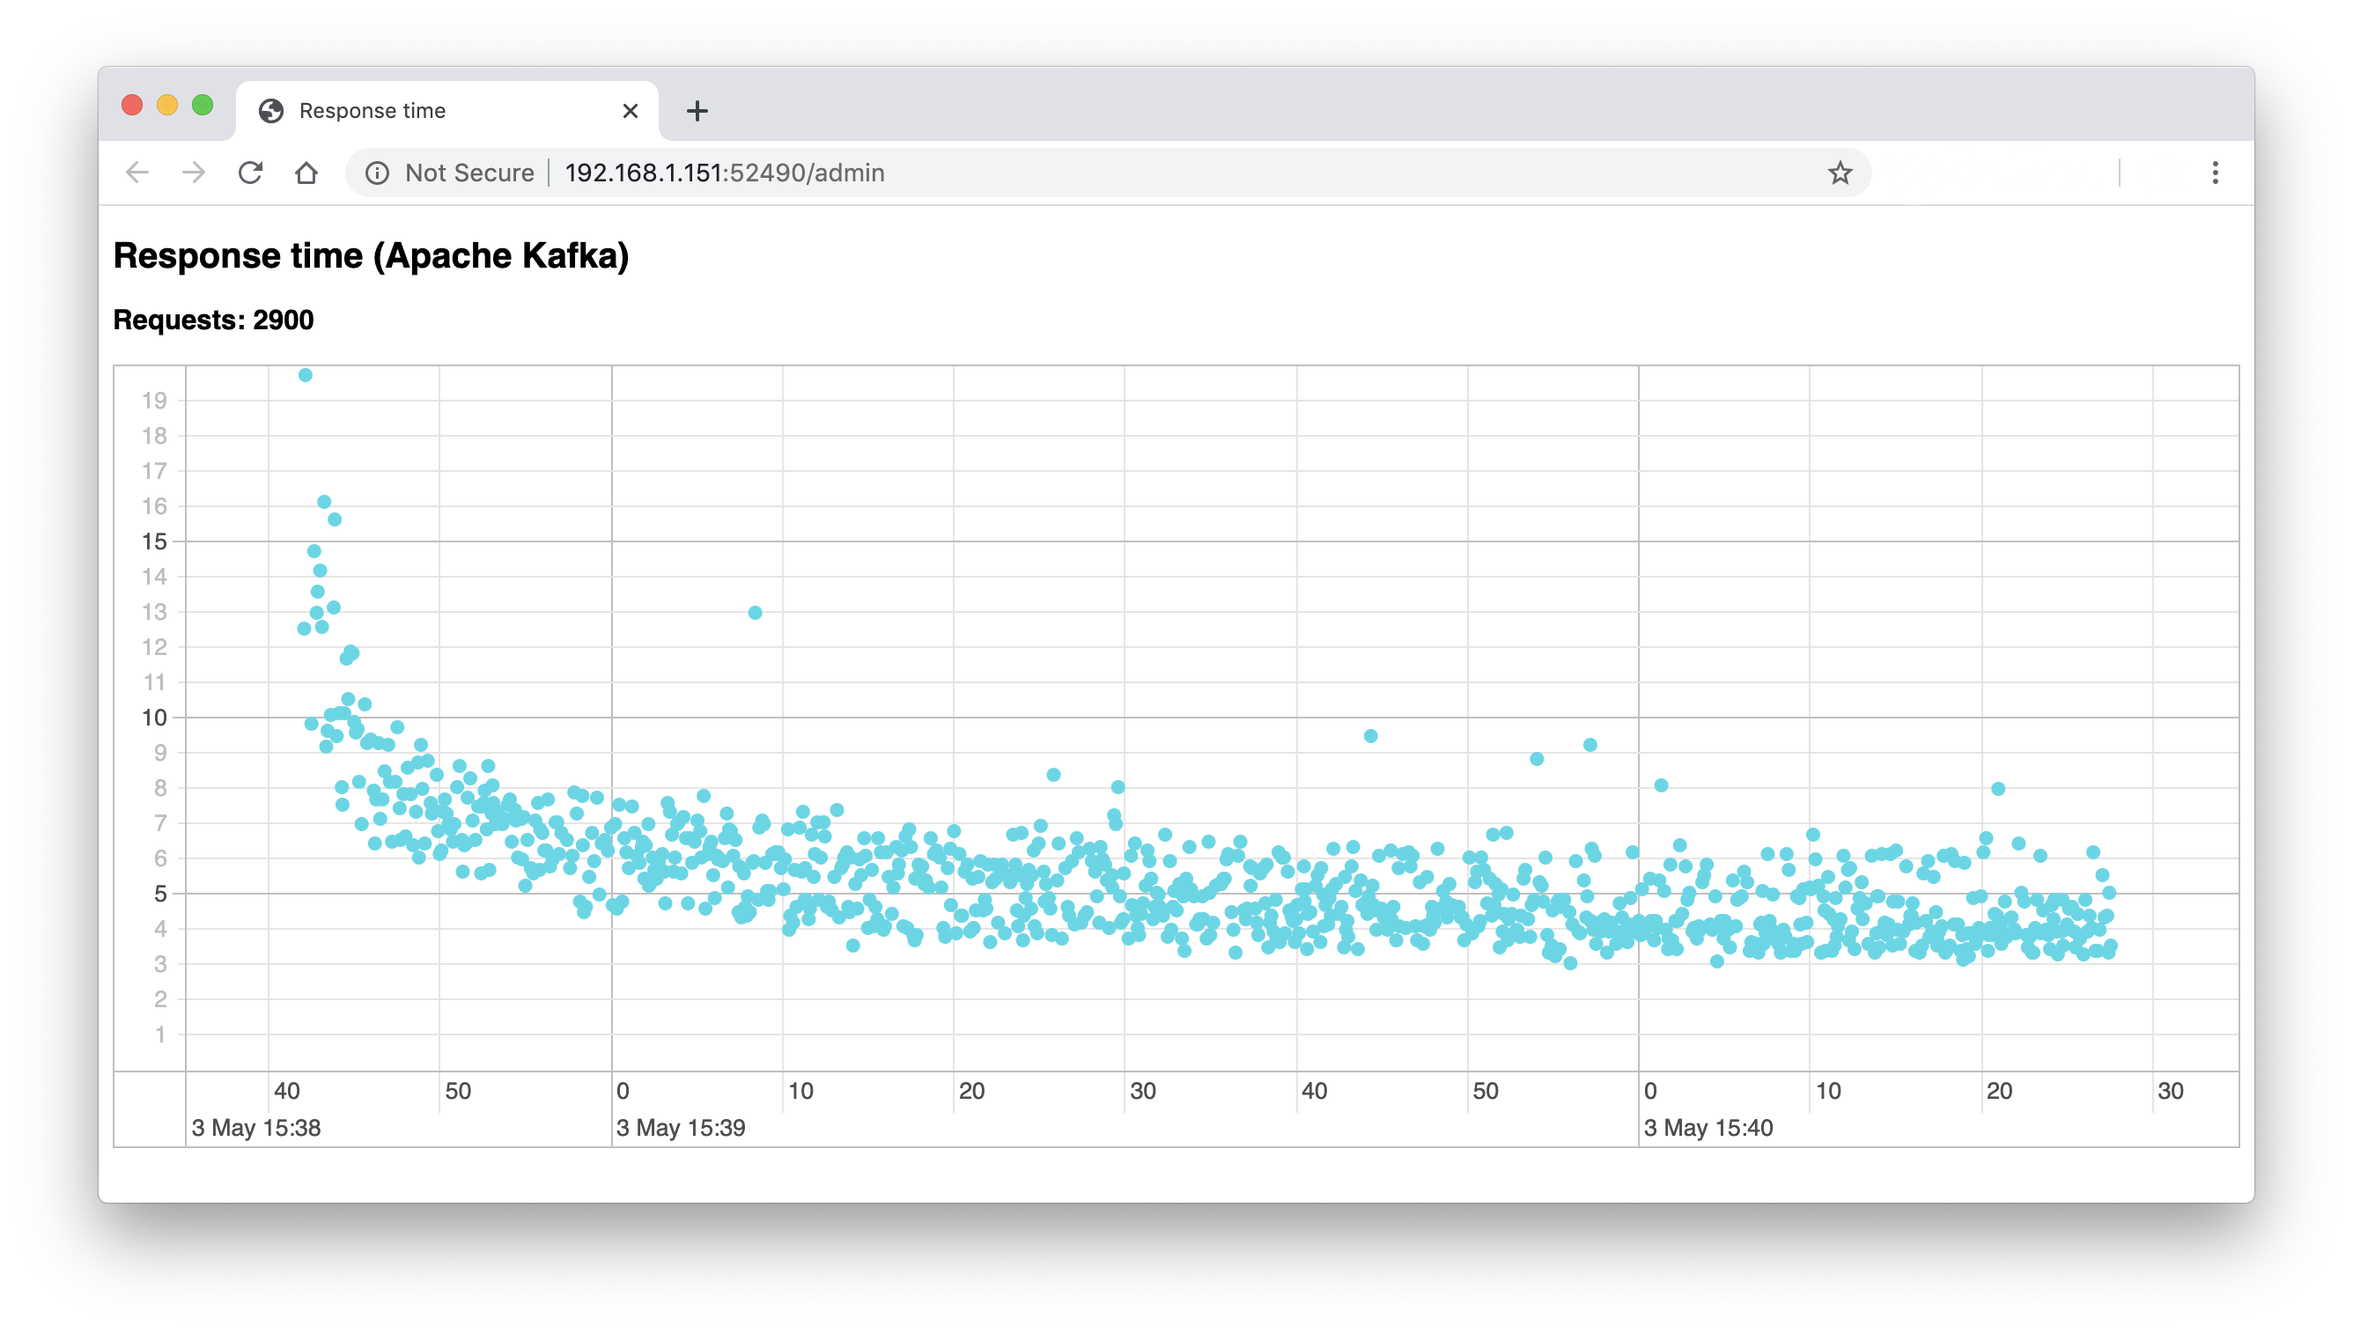
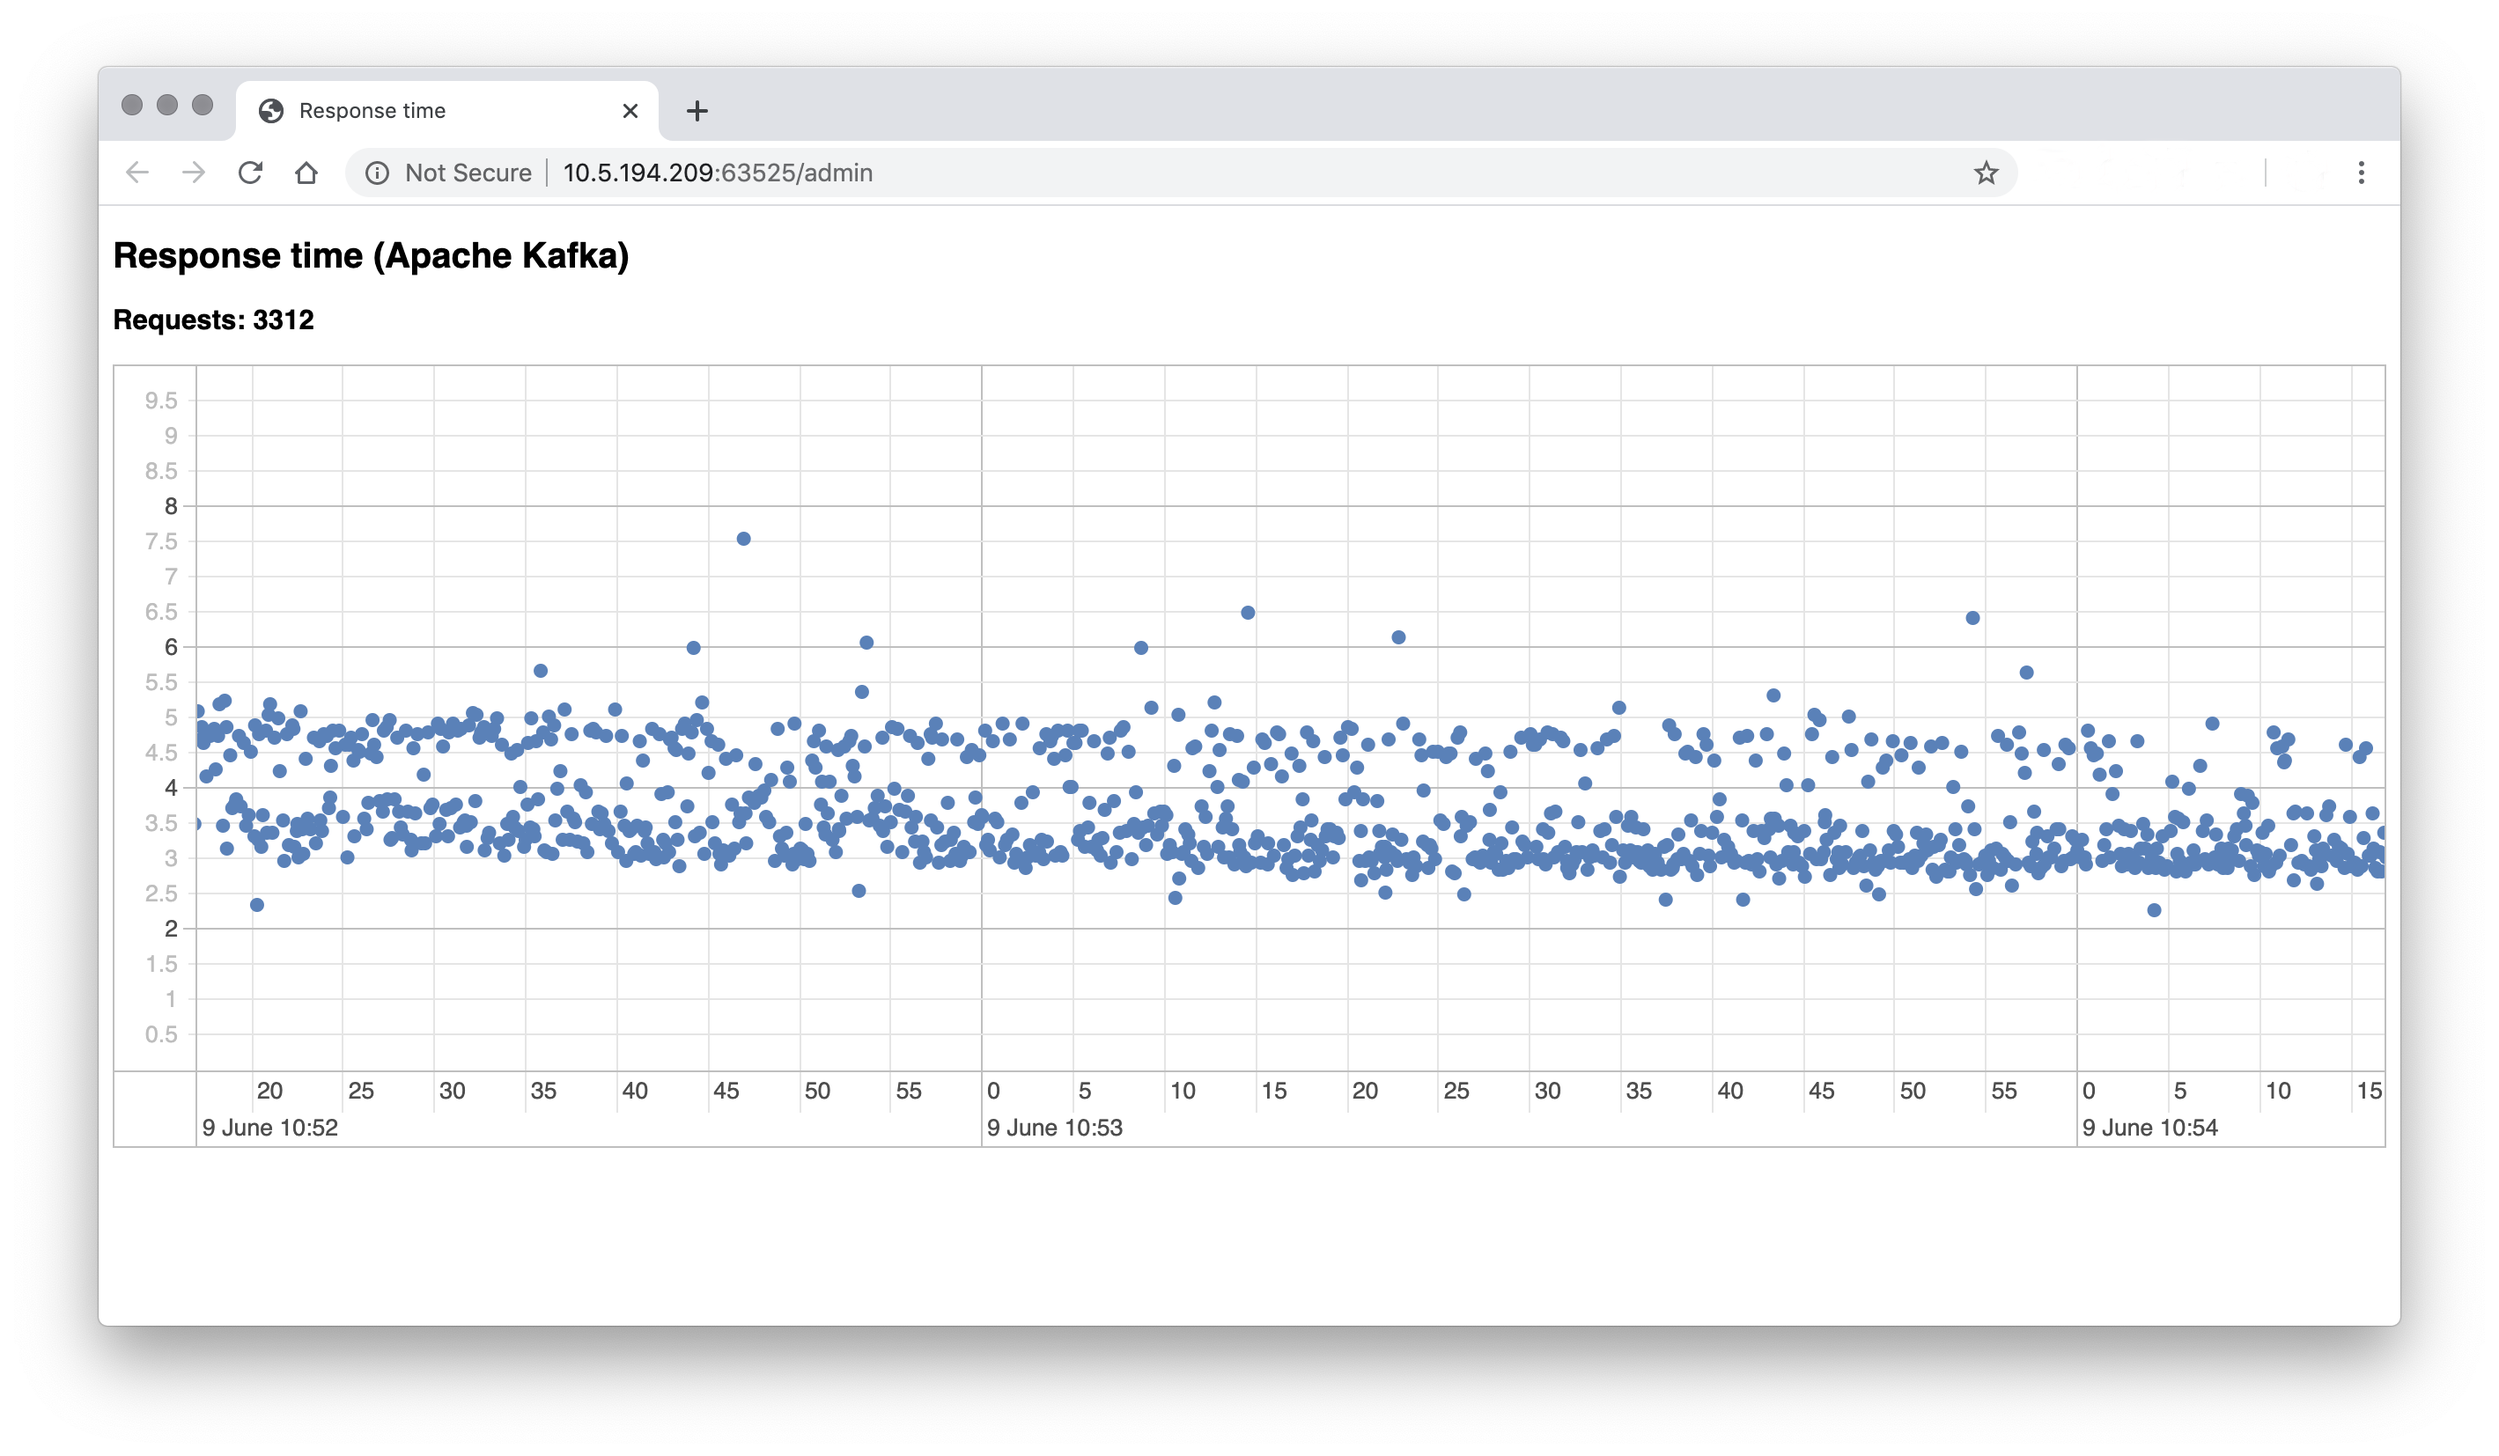
Fixed bug & retested with Kafka

diff --git a/src/main/java/com/jaffa/rpc/lib/kafka/KafkaRequestSender.java b/src/main/java/com/jaffa/rpc/lib/kafka/KafkaRequestSender.java
@@ -113,6 +113,7 @@ public class KafkaRequestSender extends Sender {
         try {
             ProducerRecord<String, byte[]> resultPackage = new ProducerRecord<>(requestTopic, UUID.randomUUID().toString(), message);
             producer.send(resultPackage).get();
+            producer.close();
         } catch (InterruptedException | ExecutionException e) {
             log.error("Error in sending sync request", e);
             throw new JaffaRpcExecutionException(e);
@@ -124,11 +125,10 @@ public class KafkaRequestSender extends Sender {
 
     @Override
     public void executeAsync(byte[] message) {
-        long start = System.currentTimeMillis();
         try {
             ProducerRecord<String, byte[]> resultPackage = new ProducerRecord<>(RequestUtils.getTopicForService(command.getServiceClass(), moduleId, false), UUID.randomUUID().toString(), message);
             producer.send(resultPackage).get();
-            log.info(">>>>>> Executed async request {} in {} ms", command.getRqUid(), System.currentTimeMillis() - start);
+            producer.close();
         } catch (InterruptedException | ExecutionException e) {
             log.error("Error while sending async Kafka request", e);
             throw new JaffaRpcExecutionException(e);
